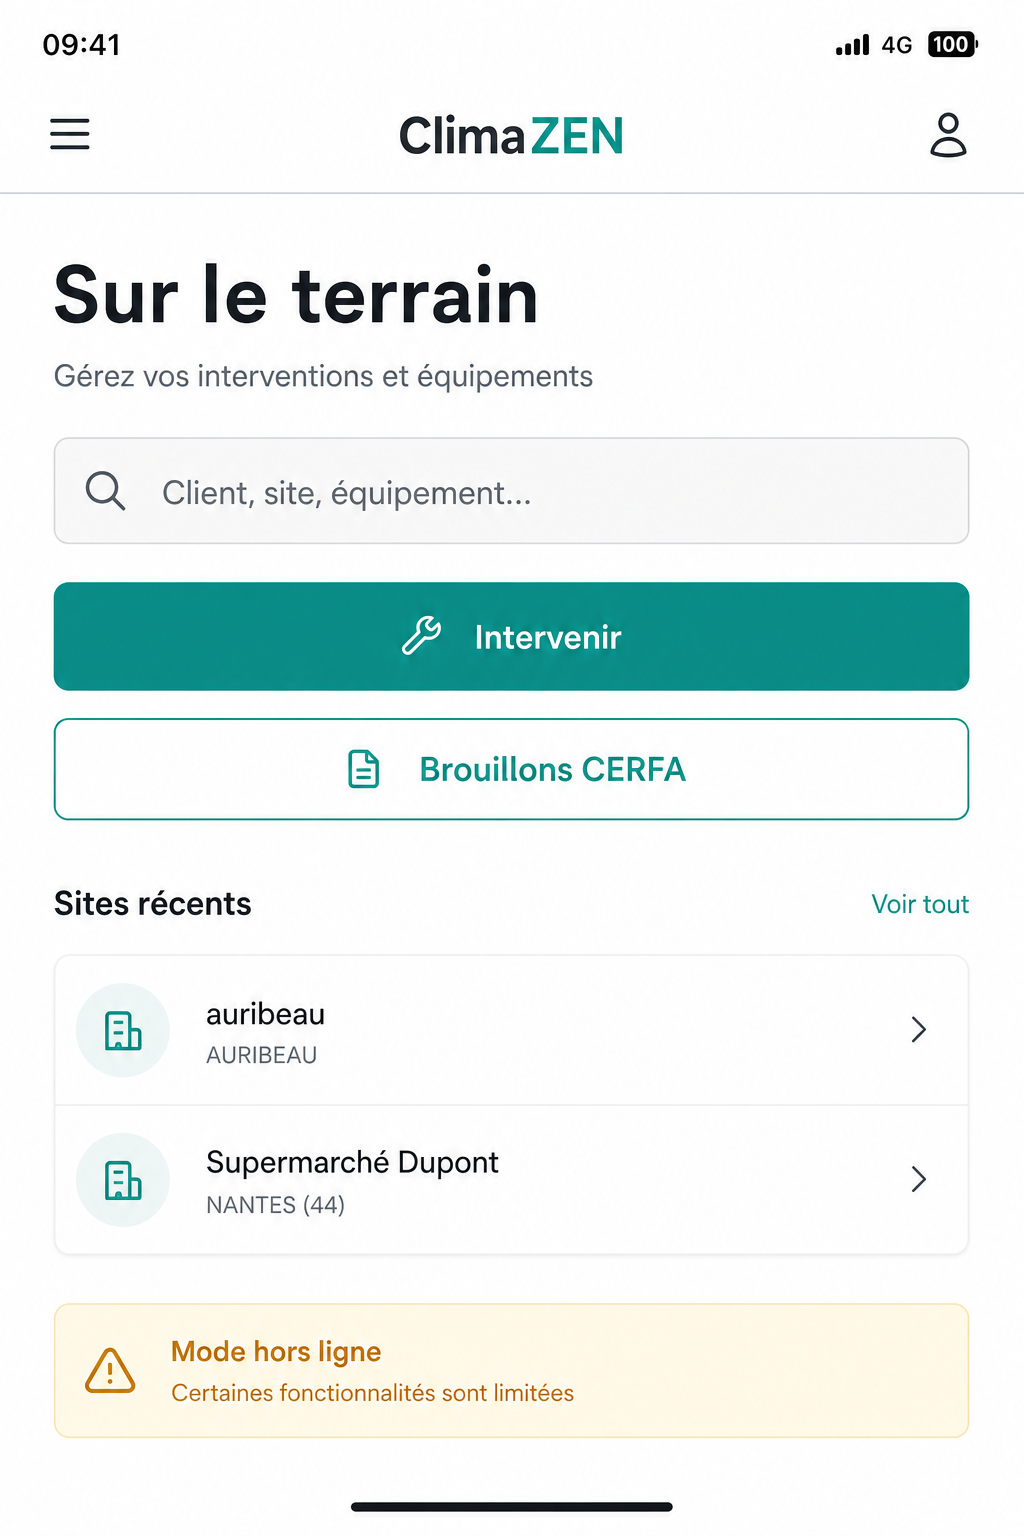
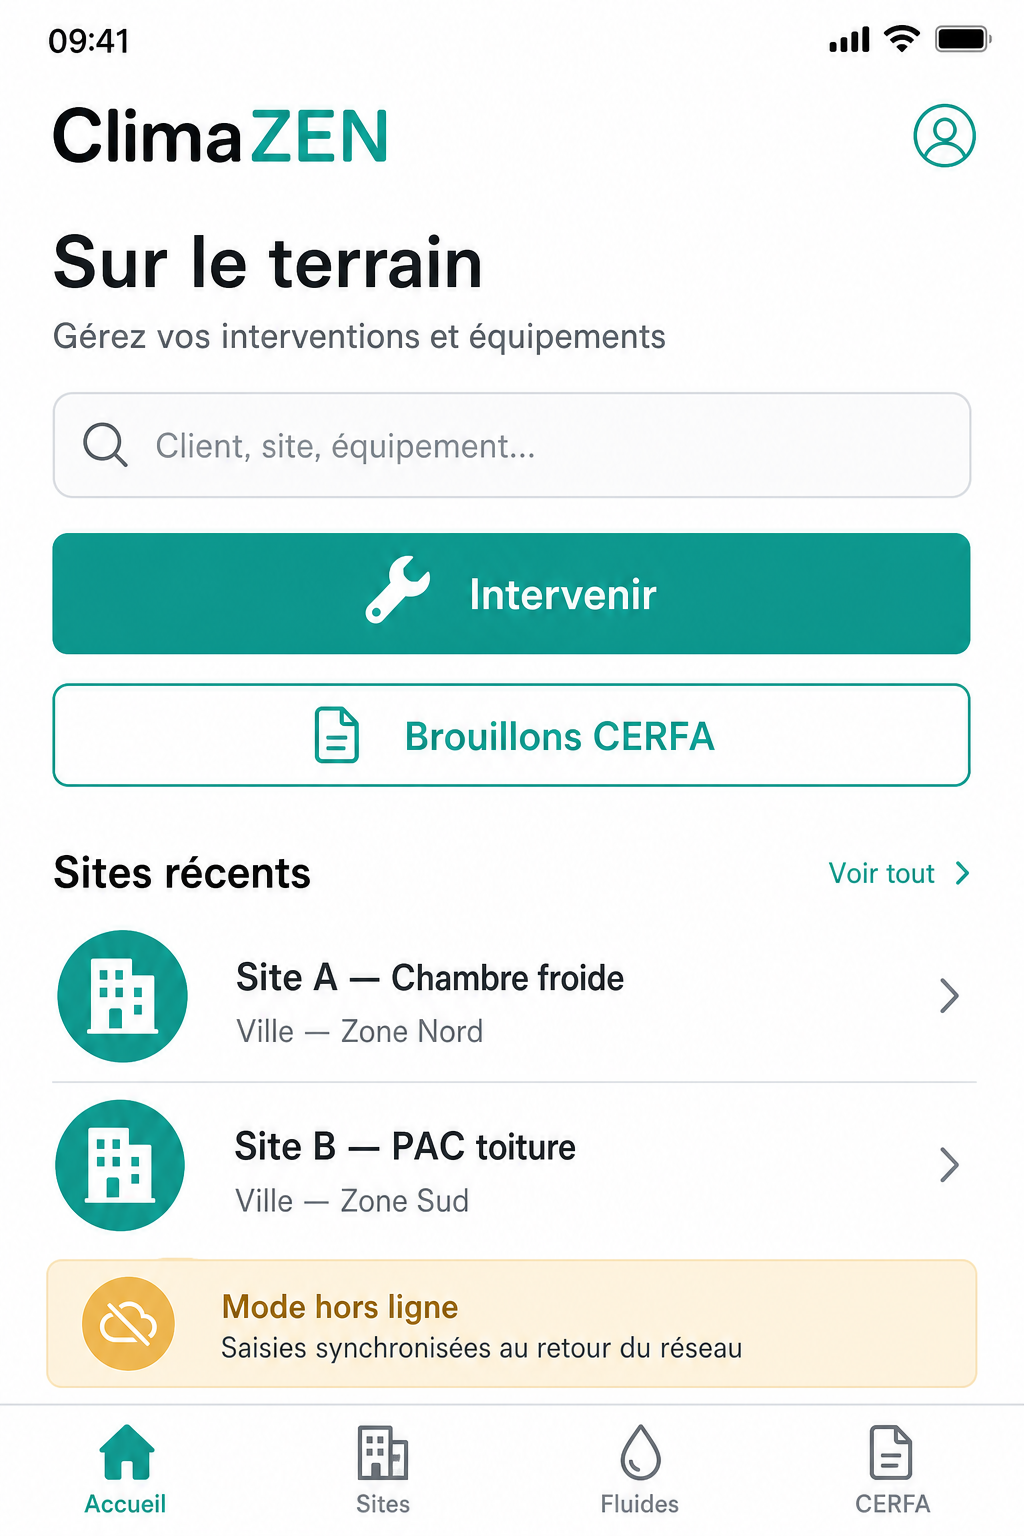
Landing : mockup smartphone générique et cadre téléphone soigné.
Nouvelle capture sans noms clients réels (Site A / Site B), encadrement type device avec ombre, Dynamic Island et légende claire.

diff --git a/src/pages/Landing.tsx b/src/pages/Landing.tsx
@@ -150,25 +150,46 @@ export function Landing() {
           </div>
 
           {/* Capture mobile — téléphone */}
-          <div className="relative mx-auto w-full max-w-[280px] animate-[fadeUp_0.9s_ease-out] sm:max-w-[300px]">
+          <div className="relative mx-auto w-full max-w-[300px] animate-[fadeUp_0.9s_ease-out] sm:max-w-[320px]">
             <div
-              className="pointer-events-none absolute -inset-8 rounded-full bg-accent/25 blur-3xl"
+              className="pointer-events-none absolute -inset-10 rounded-[50%] bg-gradient-to-br from-accent/35 via-sky-300/25 to-transparent blur-3xl"
               aria-hidden
             />
-            <div className="relative mx-auto overflow-hidden rounded-[2.35rem] border-[10px] border-ink bg-ink shadow-2xl shadow-slate/30">
-              <div className="absolute left-1/2 top-2 z-10 h-5 w-24 -translate-x-1/2 rounded-full bg-ink" />
-              <img
-                src="/landing-mobile-terrain.png"
-                alt="ClimaZEN sur smartphone — Accueil terrain et mode hors ligne"
-                className="block aspect-[9/16] w-full object-cover object-top"
-                width={720}
-                height={1280}
-                loading="eager"
+            {/* Cadre téléphone */}
+            <div className="relative mx-auto rounded-[2.75rem] bg-gradient-to-b from-slate-800 via-ink to-slate-950 p-[11px] shadow-[0_28px_60px_-12px_rgba(7,24,32,0.55),0_0_0_1px_rgba(255,255,255,0.08)_inset]">
+              {/* Boutons latéraux (décoratifs) */}
+              <span
+                className="pointer-events-none absolute -left-[3px] top-28 h-8 w-[3px] rounded-l-sm bg-slate-700"
+                aria-hidden
               />
+              <span
+                className="pointer-events-none absolute -left-[3px] top-40 h-12 w-[3px] rounded-l-sm bg-slate-700"
+                aria-hidden
+              />
+              <span
+                className="pointer-events-none absolute -right-[3px] top-36 h-16 w-[3px] rounded-r-sm bg-slate-700"
+                aria-hidden
+              />
+              <div className="relative overflow-hidden rounded-[2.15rem] bg-white ring-1 ring-white/20">
+                <div className="absolute left-1/2 top-2.5 z-10 h-[22px] w-[92px] -translate-x-1/2 rounded-full bg-ink shadow-inner" />
+                <img
+                  src="/landing-mobile-terrain.png"
+                  alt="ClimaZEN sur smartphone — accueil terrain, sites génériques et mode hors ligne"
+                  className="block aspect-[9/16] w-full object-cover object-top"
+                  width={720}
+                  height={1280}
+                  loading="eager"
+                />
+              </div>
             </div>
-            <p className="mt-4 text-center text-xs font-semibold uppercase tracking-[0.14em] text-muted">
-              Rendu smartphone · chantier
-            </p>
+            <div className="mt-5 flex flex-col items-center gap-1.5">
+              <p className="rounded-full border border-line/80 bg-white/90 px-3.5 py-1 text-[11px] font-bold uppercase tracking-[0.14em] text-slate shadow-sm">
+                Rendu smartphone · chantier
+              </p>
+              <p className="max-w-[240px] text-center text-xs text-muted">
+                Accueil terrain, recherche et mode hors ligne — sans données clients réelles.
+              </p>
+            </div>
           </div>
         </div>
       </section>

diff --git a/index.html b/index.html
@@ -38,7 +38,7 @@
       rel="stylesheet"
     />
     <title>ClimaZEN by TAIEB — CERFA F-Gas conforme, hors ligne</title>
-    <meta name="climazen-build" content="2026-08-11-mobile-first" />
+    <meta name="climazen-build" content="2026-08-11-landing-mockup" />
   </head>
   <body>
     <div id="root"></div>
